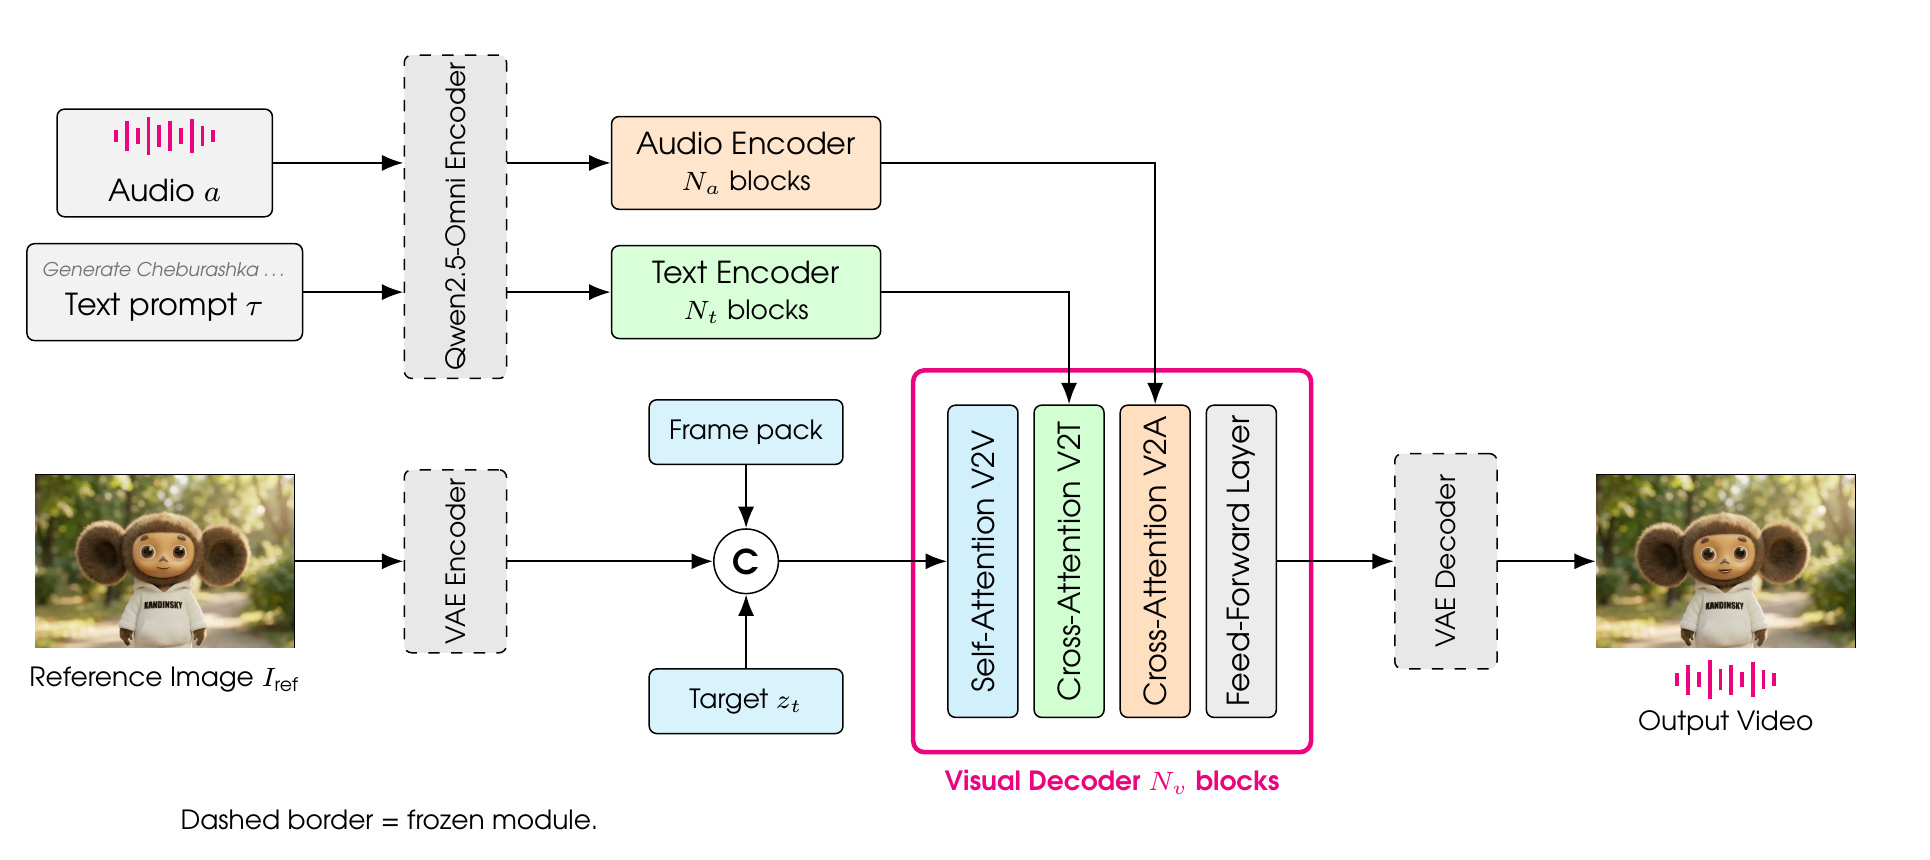
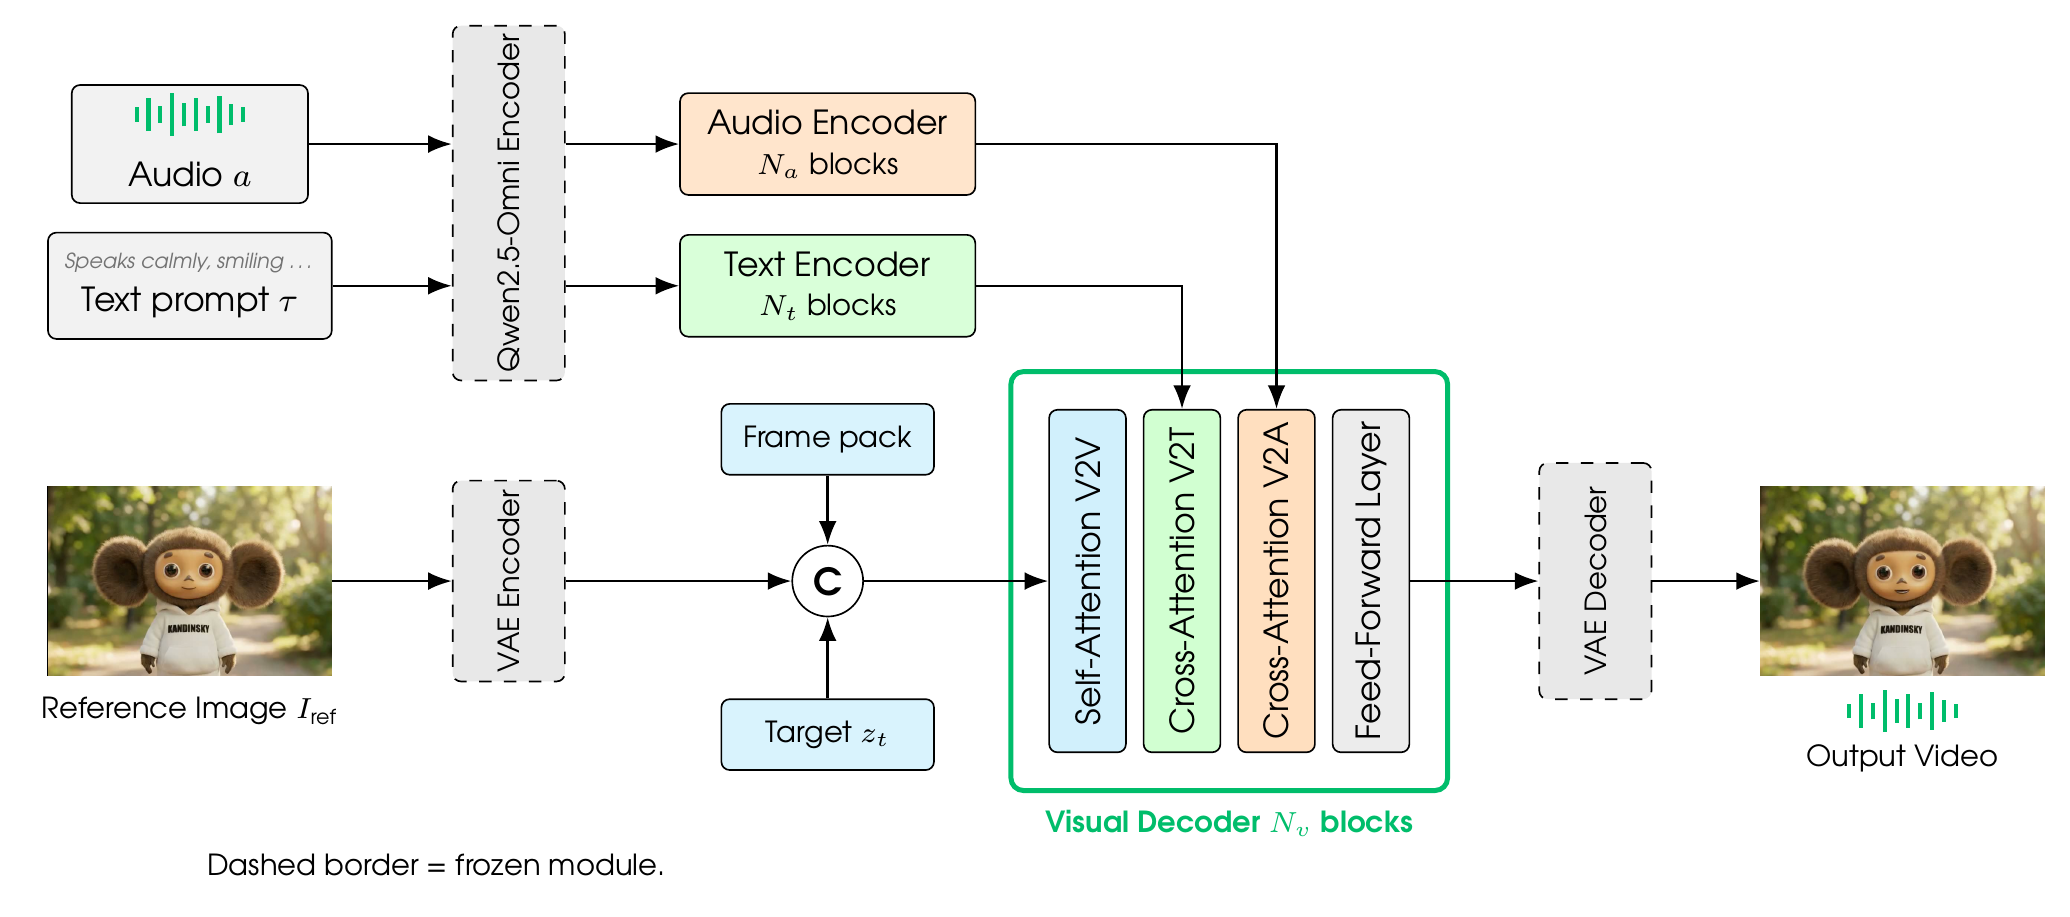
Switch accent to the report's green and refresh the architecture figure
- Accent #d6006e/#ff4d97 -> #00BD6B (Kandinsky S2V 1.0 report), hero tints to match
- Re-render the architecture figure from the current report TikZ (green accent,
  updated prompt example)
- Bump stylesheet/figure cache versions

diff --git a/index.html b/index.html
@@ -4,7 +4,7 @@
 <meta charset="utf-8">
 <meta name="viewport" content="width=device-width, initial-scale=1">
 <title>Kandinsky Avatar: Audio-Driven Avatar Video Generation</title>
-<link rel="stylesheet" href="style.css?v=3">
+<link rel="stylesheet" href="style.css?v=4">
 </head>
 <body>
 
@@ -91,7 +91,7 @@
   </p>
 
   <figure class="figure">
-    <img src="assets/architecture.png" alt="Overview of the Kandinsky Avatar architecture" loading="lazy">
+    <img src="assets/architecture.png?v=2" alt="Overview of the Kandinsky Avatar architecture" loading="lazy">
     <figcaption>
       Text features from the frozen Qwen2.5-Omni Thinker and acoustic features from its
       frozen audio tower feed two trainable DiT-internal stacks. The reference image is

diff --git a/style.css b/style.css
@@ -1,5 +1,5 @@
 :root {
-  --accent: #d6006e;
+  --accent: #00bd6b; /* Kandinsky S2V 1.0 report accent */
   --bg: #ffffff;
   --fg: #16161a;
   --muted: #5c5c66;
@@ -31,7 +31,7 @@ body {
 .hero {
   border-bottom: 1px solid var(--line);
   padding: 64px 0 40px;
-  background: linear-gradient(180deg, #fff 0%, #fdf4f8 100%);
+  background: linear-gradient(180deg, #fff 0%, #f0fbf6 100%);
   text-align: center;
 }
 
@@ -257,9 +257,9 @@ footer {
     --muted: #a0a0ac;
     --line: #2a2a32;
     --card: #17171d;
-    --accent: #ff4d97;
+    --accent: #00bd6b;
   }
-  .hero { background: linear-gradient(180deg, #101014 0%, #1a1016 100%); }
+  .hero { background: linear-gradient(180deg, #101014 0%, #0f1a15 100%); }
   .toc a { background: #17171d; }
 }
 
